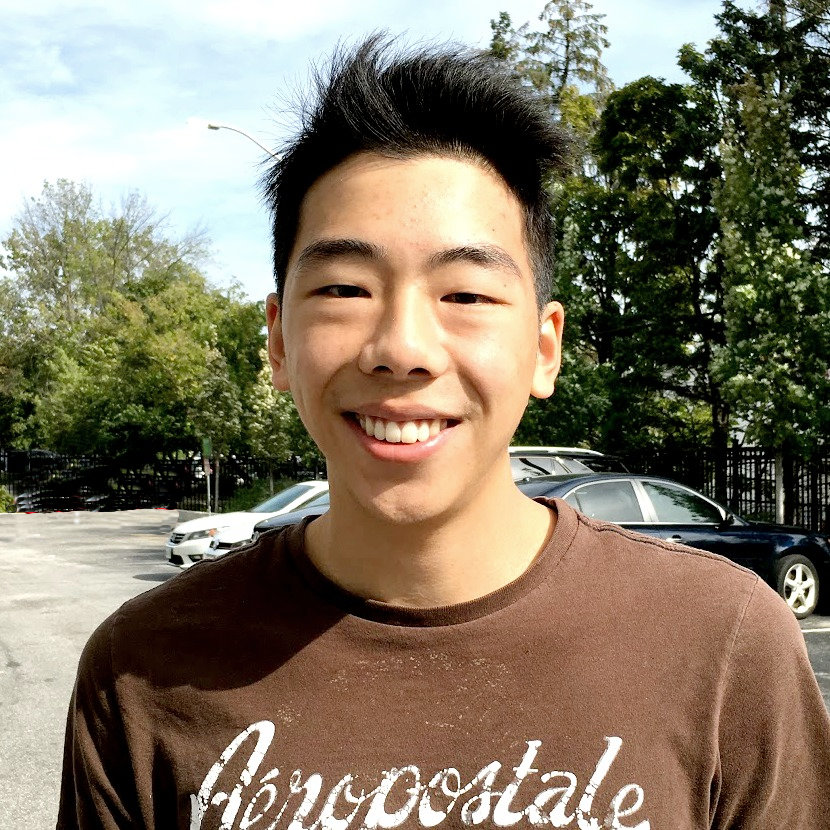
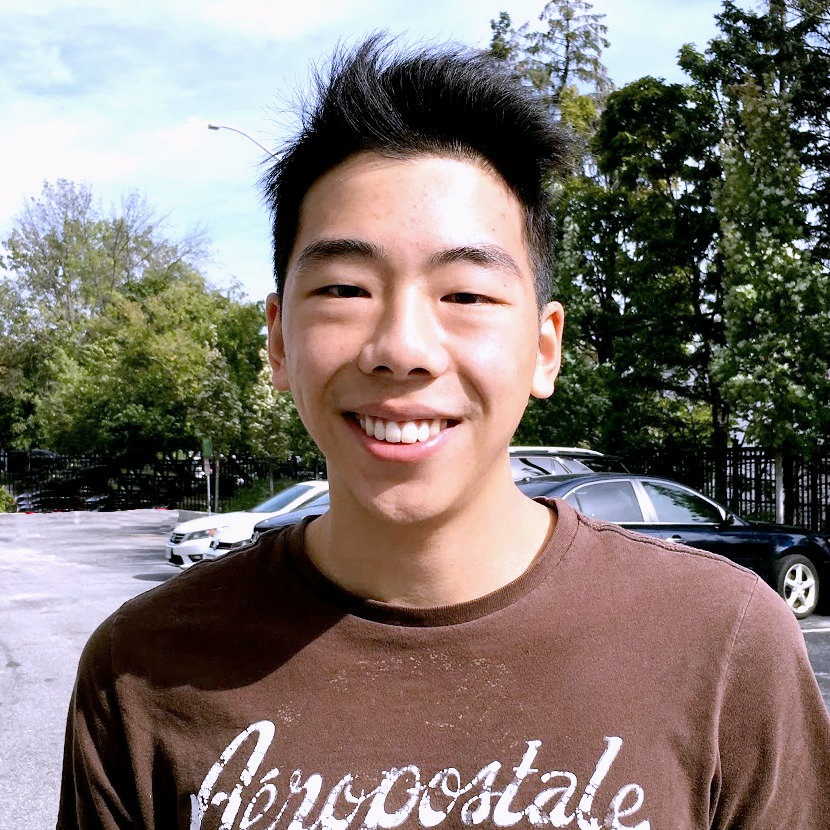
picture changes and merge conflicts

diff --git a/site.html b/site.html
@@ -23,10 +23,8 @@
       <section id="about-section">
         <div class="container">
           <h2><div class="horizontal-line">about</div></h2>
-          <div class="col-md-5 col-sm-5">
-            <img src="assets/logos/uw_logo@2x.png"/>
-          </div>
-          <div class="col-md-7 col-sm-7">
+          <img src="assets/logos/uw_logo@2x.png" class="col-md-5 col-sm-5 col-xs-8" />
+          <div class="col-md-7 col-sm-7 col-xs-12">
             <p>UW Blueprint is a group of students at the University of Waterloo dedicated to building technology for social good. We partner with non-profits to provide technology services such as websites, mobile applications, analysis tools&mdash;free of charge.</p>
             <p>Blueprint was founded in 2013 at UC Berkeley. The University of Waterloo is Blueprint's first chapter outside of Berkeley.</p>
           </div>
@@ -91,7 +89,7 @@
             <p class="title">co-president</p>
           </div>
           <div class="col-md-3 col-sm-4">
-            <img src="assets/profiles/john3.jpg">
+            <img src="assets/profiles/john.jpg">
             <p class="name">John Salaveria</p>
             <p class="title">external VP</p>
           </div>
@@ -101,7 +99,7 @@
             <p class="title">internal VP</p>
           </div>
           <div class="col-md-3 col-sm-4">
-            <img src="assets/profiles/chris2.jpg">
+            <img src="assets/profiles/chris.jpg">
             <p class="name">Christopher Luc</p>
             <p class="title">VP of technology</p>
           </div>
@@ -121,7 +119,7 @@
             <p class="title">VP of design</p>
           </div>
           <div class="col-md-3 col-sm-4">
-            <img src="assets/profiles/nick2.jpg">
+            <img src="assets/profiles/nick.jpg">
             <p class="name">Nicholas Kam</p>
             <p class="title">project developer</p>
           </div>
